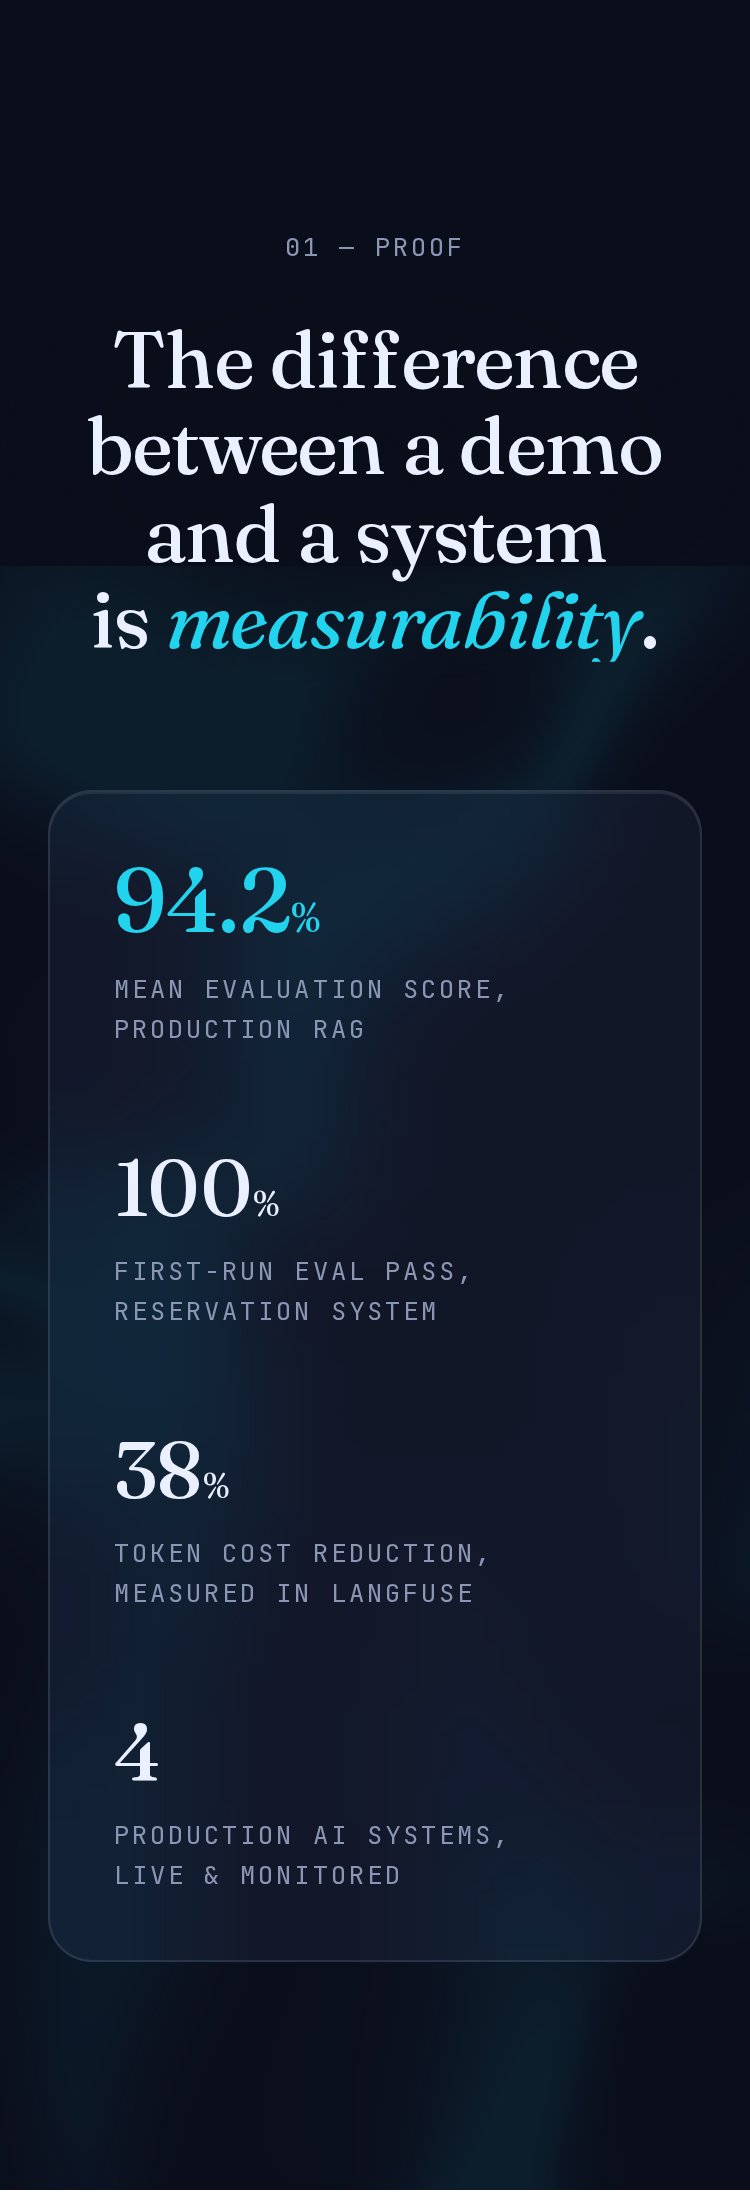
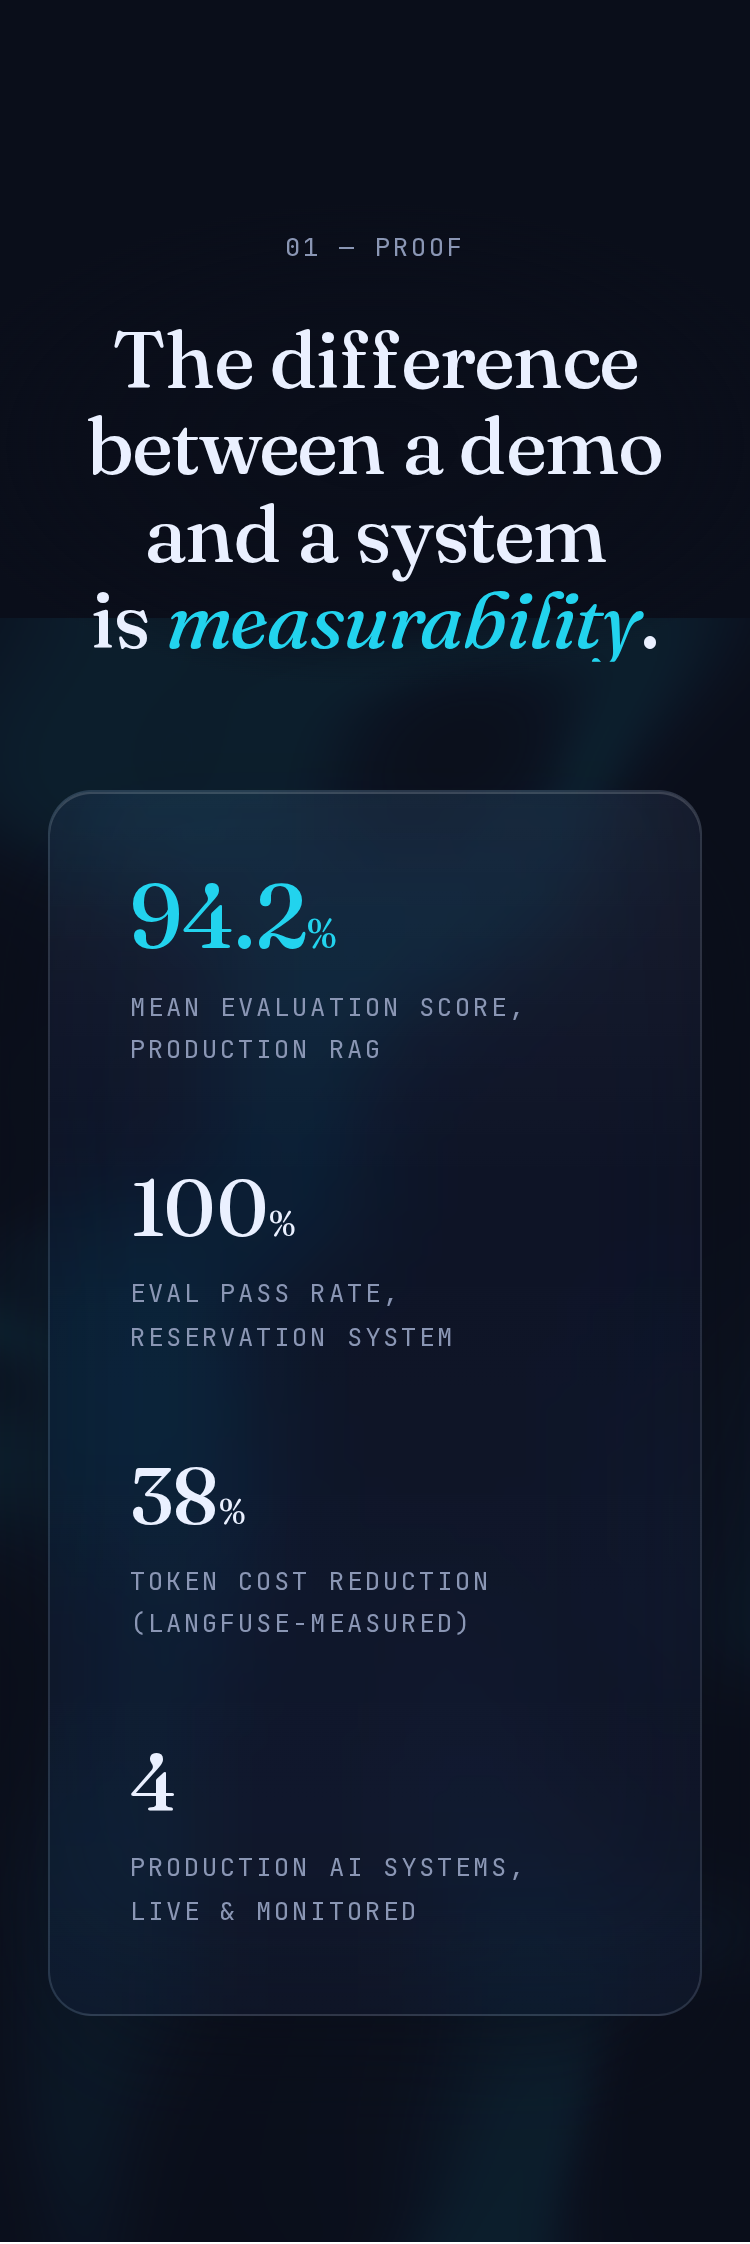
feat(portfolio-dark): Proof polish — liquid glass panel + count-up
Liquid glass
- .glass-liquid recipe: blur(24px) saturate(160%), gradient surface
  over var(--surface), 1px glass border, top inner-highlight edge,
  inner depth shadow + soft drop — frosted panel floating over the
  fluid, restrained
- Gotcha found while debugging "rule not applying": the CSS pipeline
  silently dropped the rule when linear-gradient() args were split
  across lines — gradient must stay single-line in globals.css

Captions + fit
- "Eval pass rate, reservation system" / "Token cost reduction
  (Langfuse-measured)"; roomier panel padding + caption line-height so
  both caption lines render fully at 1440 and 375

Count-up (extends Reveal, does not double it)
- Reveal gains an onRevealStart hook fired by THE reveal tween
  (full-motion branch only) — no second scroll trigger
- Each figure counts 0 -> value on reveal (decimals + static suffixes
  respected, tabular-nums to prevent width jitter), once per load,
  staggered by the existing 80ms token
- Markup ships final values: reduced-motion and no-JS show 94.2/100/
  38/4 instantly (verified via reducedMotion probe)

Verified: mid-count frame (85.3/91/32/3), finals exact, 0 console
errors, 0 overflow, tsc + eslint clean.

diff --git a/src/components/portfolio-dark/DarkProof.tsx b/src/components/portfolio-dark/DarkProof.tsx
@@ -1,7 +1,11 @@
+"use client";
+
+import { useRef } from "react";
+import { gsap, EASE } from "@/lib/gsap";
 import Reveal from "@/components/portfolio/Reveal";
 
 type Metric = {
-  value: string;
+  value: string; // final display value, also the SSR/reduced-motion state
   suffix?: string;
   caption: string;
   accent?: boolean;
@@ -17,12 +21,12 @@ const METRICS: Metric[] = [
   {
     value: "100",
     suffix: "%",
-    caption: "First-run eval pass, reservation system",
+    caption: "Eval pass rate, reservation system",
   },
   {
     value: "38",
     suffix: "%",
-    caption: "Token cost reduction, measured in Langfuse",
+    caption: "Token cost reduction (Langfuse-measured)",
   },
   {
     value: "4",
@@ -38,6 +42,27 @@ const mono: React.CSSProperties = {
 };
 
 export default function DarkProof() {
+  const numberRefs = useRef<(HTMLSpanElement | null)[]>([]);
+
+  // Count-up synced to THE Reveal via its onRevealStart hook — no second
+  // scroll trigger. Markup ships the final value, so reduced-motion and
+  // no-JS render it instantly; the count only ever runs once per load.
+  const startCount = (i: number) => {
+    const el = numberRefs.current[i];
+    if (!el) return;
+    const target = parseFloat(METRICS[i].value);
+    const decimals = METRICS[i].value.includes(".") ? 1 : 0;
+    const state = { v: 0 };
+    gsap.to(state, {
+      v: target,
+      duration: 1.4,
+      ease: EASE,
+      onUpdate: () => {
+        el.textContent = state.v.toFixed(decimals);
+      },
+    });
+  };
+
   return (
     <section
       id="proof"
@@ -81,14 +106,14 @@ export default function DarkProof() {
           </Reveal>
         </div>
 
-        {/* Figures — one restrained glass panel, clean aligned 2×2 */}
+        {/* Figures — ONE liquid-glass panel, clean aligned 2×2 */}
         <div
-          className="glass mx-auto mt-[var(--space-16)] max-w-[64rem] rounded-3xl lg:mt-[var(--space-24)]"
-          style={{ padding: "clamp(2rem, 5vw, 4rem)" }}
+          className="glass-liquid mx-auto mt-[var(--space-16)] max-w-[64rem] rounded-3xl lg:mt-[var(--space-24)]"
+          style={{ padding: "clamp(2.5rem, 6vw, 4.5rem)" }}
         >
           <div className="grid grid-cols-1 items-start gap-y-[var(--space-12)] md:grid-cols-2 md:gap-x-[var(--space-16)] md:gap-y-[var(--space-16)]">
             {METRICS.map((m, i) => (
-              <Reveal key={m.caption} delay={i * 0.06}>
+              <Reveal key={m.caption} delay={i * 0.08} onRevealStart={() => startCount(i)}>
                 <p
                   style={{
                     fontFamily: "var(--font-display)",
@@ -97,16 +122,23 @@ export default function DarkProof() {
                     lineHeight: 1,
                     letterSpacing: "-0.02em",
                     color: m.accent ? "var(--accent)" : "var(--text)",
+                    fontVariantNumeric: "tabular-nums", // steady width while counting
                   }}
                 >
-                  {m.value}
+                  <span
+                    ref={(el) => {
+                      numberRefs.current[i] = el;
+                    }}
+                  >
+                    {m.value}
+                  </span>
                   {m.suffix && (
                     <span style={{ fontSize: "0.45em", letterSpacing: "0" }}>{m.suffix}</span>
                   )}
                 </p>
                 <p
                   className="mt-[var(--space-3)] uppercase"
-                  style={{ ...mono, maxWidth: "28ch" }}
+                  style={{ ...mono, maxWidth: "30ch", lineHeight: 1.7 }}
                 >
                   {m.caption}
                 </p>

diff --git a/src/components/portfolio/Reveal.tsx b/src/components/portfolio/Reveal.tsx
@@ -11,6 +11,13 @@ type RevealProps = {
   delay?: number;
   /** Stagger direct children instead of revealing the block as one. */
   staggerChildren?: boolean;
+  /**
+   * Extension hook: fires when the reveal tween starts (full-motion only).
+   * Lets content sync extra motion (e.g. number count-ups) to THE reveal
+   * instead of registering a second scroll trigger. Not called under
+   * reduced motion — content should already render its final state.
+   */
+  onRevealStart?: () => void;
 };
 
 /**
@@ -23,6 +30,7 @@ export default function Reveal({
   className,
   delay = 0,
   staggerChildren = false,
+  onRevealStart,
 }: RevealProps) {
   const ref = useRef<HTMLElement>(null);
 
@@ -45,6 +53,7 @@ export default function Reveal({
             duration: DUR_REVEAL,
             ease: EASE,
             delay,
+            onStart: onRevealStart,
             stagger: staggerChildren ? STAGGER : 0,
             // clamp() keeps the trigger inside scrollable bounds — without it,
             // elements near the page bottom can never reach "top 85%" and

diff --git a/src/app/globals.css b/src/app/globals.css
@@ -307,6 +307,20 @@
     0 4px 44px -4px rgba(34, 211, 238, 0.65);
 }
 
+/* Liquid glass — the refined panel treatment: deeper blur/saturation,
+   gradient surface, top highlight edge, inner depth shadow. For the few
+   large frosted panels; .glass stays the everyday recipe. */
+.portfolio-dark .glass-liquid {
+  background: linear-gradient(180deg, rgba(255, 255, 255, 0.07) 0%, rgba(255, 255, 255, 0.025) 32%, var(--surface) 100%);
+  -webkit-backdrop-filter: blur(24px) saturate(160%);
+  backdrop-filter: blur(24px) saturate(160%);
+  border: 1px solid var(--glass-border);
+  box-shadow:
+    inset 0 1px 0 rgba(255, 255, 255, 0.16),
+    inset 0 -32px 56px rgba(10, 14, 26, 0.38),
+    0 24px 64px -32px rgba(10, 14, 26, 0.9);
+}
+
 /* The one glass recipe — nav, chips, cards, CTAs all share it */
 .portfolio-dark .glass {
   background: var(--surface);
